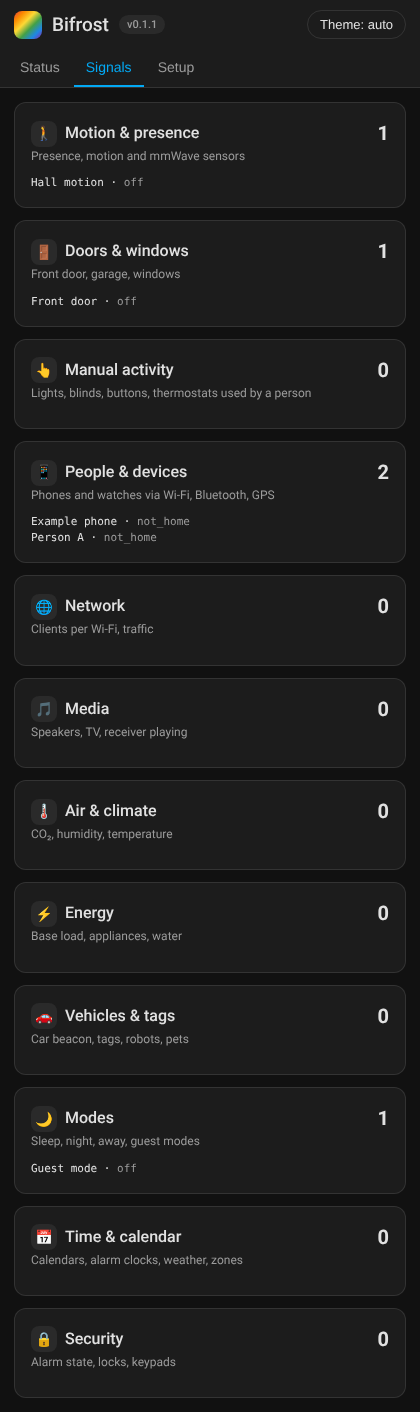
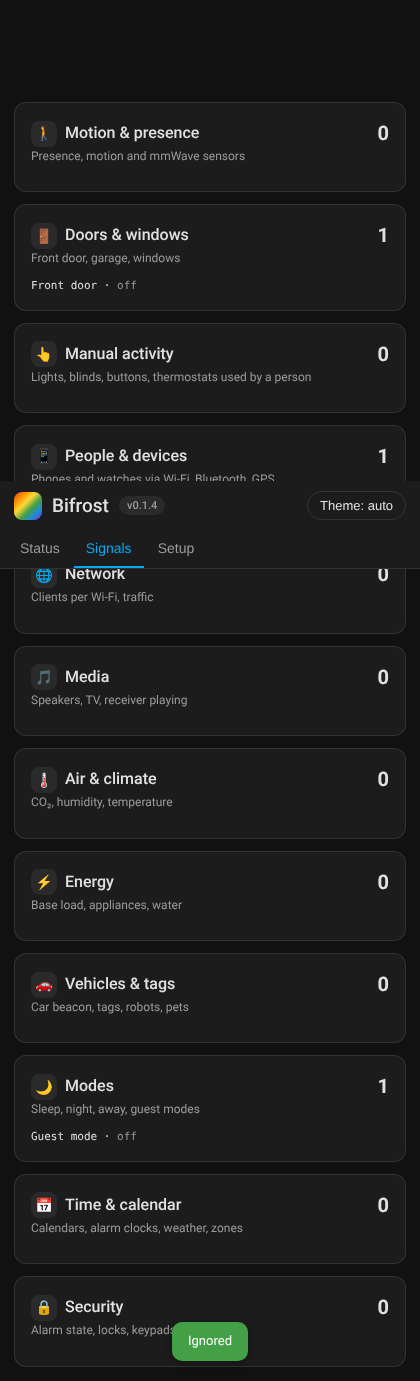
Fix saving in Setup through Ingress (chunked bodies), visible save feedback (0.1.5)
Claude-Session: https://claude.ai/code/session_01SNL6TnyZbybHRpEB2VnwW5

diff --git a/bifrost/app/bifrost_app/static/index.html b/bifrost/app/bifrost_app/static/index.html
@@ -65,6 +65,7 @@ input[type=search]{width:100%;margin-bottom:10px}
   <div class="bar-top"><div class="logo" aria-hidden="true"></div><h1>Bifrost</h1><span class="tag" id="ver"></span><div class="sp"></div><button class="iconbtn" id="themeBtn">Theme: auto</button></div>
   <nav class="tabs" id="tabs"><button data-v="status" class="active">Status</button><button data-v="signals">Signals</button><button data-v="setup">Setup</button></nav>
 </div>
+<div id="toast" style="display:none;position:fixed;left:50%;bottom:20px;transform:translateX(-50%);color:#fff;padding:10px 16px;border-radius:10px;z-index:20;font-size:13px;box-shadow:0 2px 8px rgba(0,0,0,.3)"></div>
 <main id="main"><div class="empty">Loading…</div></main>
 <script>
 "use strict";
@@ -146,8 +147,9 @@ function bindSetup(){
   el.onchange=function(ev){var row=ev.target.closest(".erow");if(!row)return;var id=row.dataset.id;
     var inc=row.querySelector(".inc").checked,cat=row.querySelector(".cat").value||null,role=row.querySelector(".role").value||null;
     var status=ev.target.classList.contains("inc")?(inc?"included":"ignored"):(cat&&role?"included":"suggested");
-    api("api/entity",{entity_id:id,status:status,category:cat,role:role}).then(function(u){S.ents.entities.forEach(function(e,i){if(e.entity_id===id)S.ents.entities[i]=u;});el.innerHTML=entityRows();}).catch(function(){alert("Could not save");});};
+    api("api/entity",{entity_id:id,status:status,category:cat,role:role}).then(function(u){toast(u.status==="included"?"Used by Bifrost":u.status==="ignored"?"Ignored":"Saved");S.ents.entities.forEach(function(e,i){if(e.entity_id===id)S.ents.entities[i]=u;});el.innerHTML=entityRows();}).catch(function(e){toast("Could not save ("+e.message+")",true);});};
 }
+function toast(msg,err){var t=document.getElementById("toast");t.textContent=msg;t.style.background=err?"var(--err)":"var(--ok)";t.style.display="block";clearTimeout(t._h);t._h=setTimeout(function(){t.style.display="none";},3500);}
 function render(){
   document.querySelectorAll("#tabs button").forEach(function(b){b.classList.toggle("active",b.dataset.v===S.view);});
   var m=document.getElementById("main");

diff --git a/bifrost/app/bifrost_app/web.py b/bifrost/app/bifrost_app/web.py
@@ -79,6 +79,32 @@ def make_handler(service, dev: bool = False):  # noqa: ANN001
             self.end_headers()
             self.wfile.write(data)
 
+        def _read_body(self) -> bytes:
+            """Read the request body – with Content-Length or chunked (HA Ingress streams bodies chunked)."""
+            if "chunked" in (self.headers.get("Transfer-Encoding") or "").lower():
+                data = b""
+                while True:
+                    line = self.rfile.readline(64)
+                    try:
+                        size = int(line.split(b";", 1)[0].strip() or b"0", 16)
+                    except ValueError as err:
+                        raise ValueError("bad chunk") from err
+                    if size == 0:
+                        self.rfile.readline(64)  # trailing CRLF
+                        break
+                    if len(data) + size > MAX_BODY:
+                        raise ValueError("too large")
+                    data += self.rfile.read(size)
+                    self.rfile.read(2)  # CRLF after each chunk
+                return data or b"{}"
+            try:
+                length = int(self.headers.get("Content-Length") or 0)
+            except ValueError as err:
+                raise ValueError("bad length") from err
+            if length < 0 or length > MAX_BODY:
+                raise ValueError("too large")
+            return self.rfile.read(length) if length else b"{}"
+
         def _route(self) -> str:
             path = self.path.split("?", 1)[0]
             # Ingress strips its prefix; keep only the last meaningful part
@@ -109,12 +135,9 @@ def make_handler(service, dev: bool = False):  # noqa: ANN001
                 return self._send(HTTPStatus.FORBIDDEN, {"error": "missing request header"})
             route = self._route()
             try:
-                length = int(self.headers.get("Content-Length") or 0)
+                raw = self._read_body()
             except ValueError:
-                length = -1
-            if length < 0 or length > MAX_BODY:
                 return self._send(HTTPStatus.REQUEST_ENTITY_TOO_LARGE, {"error": "body too large"})
-            raw = self.rfile.read(length) if length else b"{}"
             try:
                 body = json.loads(raw or b"{}")
             except ValueError:

diff --git a/tests/test_web.py b/tests/test_web.py
@@ -145,3 +145,34 @@ def test_missing_token_raises(tmp_path, monkeypatch):
     monkeypatch.setattr(ha_client, "S6_ENV_DIR", str(tmp_path))
     with pytest.raises(ha_client.HAError):
         ha_client.HAClient()
+
+
+def test_chunked_body_like_ha_ingress():
+    import http.client
+
+    httpd, svc, base = _server(dev=True)
+    try:
+        conn = http.client.HTTPConnection("127.0.0.1", httpd.server_address[1], timeout=5)
+        body = json.dumps({"entity_id": "light.a", "status": "ignored"}).encode()
+        conn.putrequest("POST", "/api/entity")
+        conn.putheader("Content-Type", "application/json")
+        conn.putheader("X-Bifrost-Request", "1")
+        conn.putheader("Transfer-Encoding", "chunked")
+        conn.endheaders()
+        for part in (body[:10], body[10:]):
+            conn.send(f"{len(part):x}\r\n".encode() + part + b"\r\n")
+        conn.send(b"0\r\n\r\n")
+        r = conn.getresponse()
+        assert r.status == 200 and json.loads(r.read())["status"] == "ignored"
+        # oversized chunked body is refused
+        conn = http.client.HTTPConnection("127.0.0.1", httpd.server_address[1], timeout=5)
+        conn.putrequest("POST", "/api/entity")
+        conn.putheader("Content-Type", "application/json")
+        conn.putheader("X-Bifrost-Request", "1")
+        conn.putheader("Transfer-Encoding", "chunked")
+        conn.endheaders()
+        big = b"x" * (MAX_BODY + 10)
+        conn.send(f"{len(big):x}\r\n".encode() + big + b"\r\n0\r\n\r\n")
+        assert conn.getresponse().status == 413
+    finally:
+        httpd.shutdown()

diff --git a/bifrost/app/bifrost_app/__init__.py b/bifrost/app/bifrost_app/__init__.py
@@ -1,3 +1,3 @@
 """Bifrost – local presence detection for Home Assistant."""
 
-__version__ = "0.1.4"
+__version__ = "0.1.5"

diff --git a/CHANGELOG.md b/CHANGELOG.md
@@ -2,6 +2,12 @@
 
 All notable changes to Bifrost are documented here. The format follows [Keep a Changelog](https://keepachangelog.com/) and the project uses [Semantic Versioning](https://semver.org/).
 
+## [0.1.5] – 2026-11-26
+
+### Fixed
+- Switching entities on/off and changing category or role in Setup did not save through Home Assistant Ingress (request bodies arrive chunked). Chunked bodies are now supported, still limited to 4 KB.
+- Saving now shows a short confirmation or error message (alerts are blocked in the Home Assistant app).
+
 ## [0.1.4] – 2026-11-26
 
 ### Fixed
